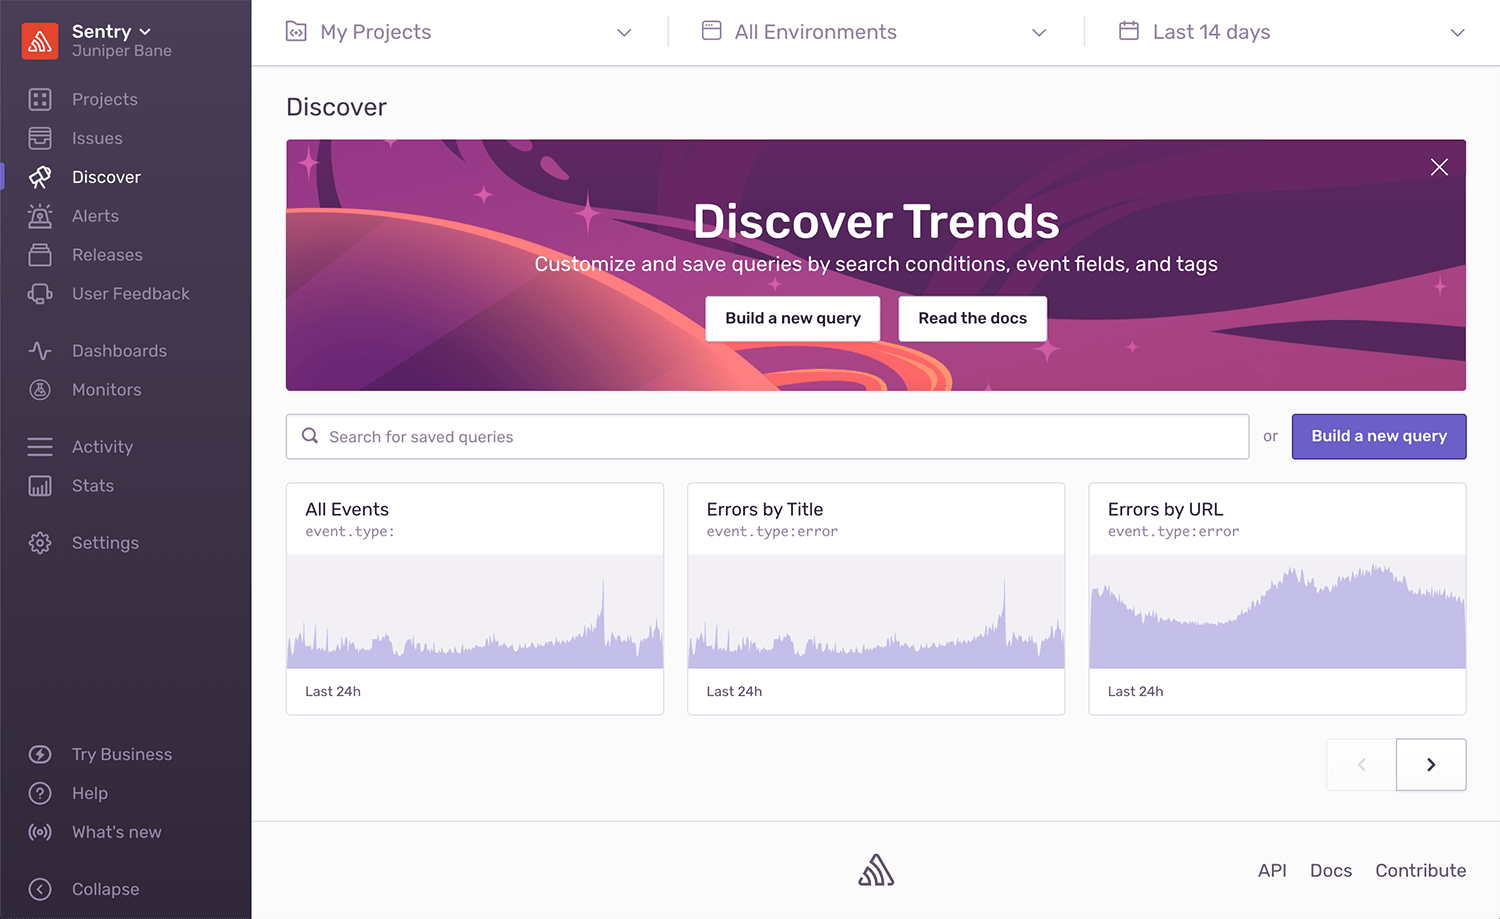
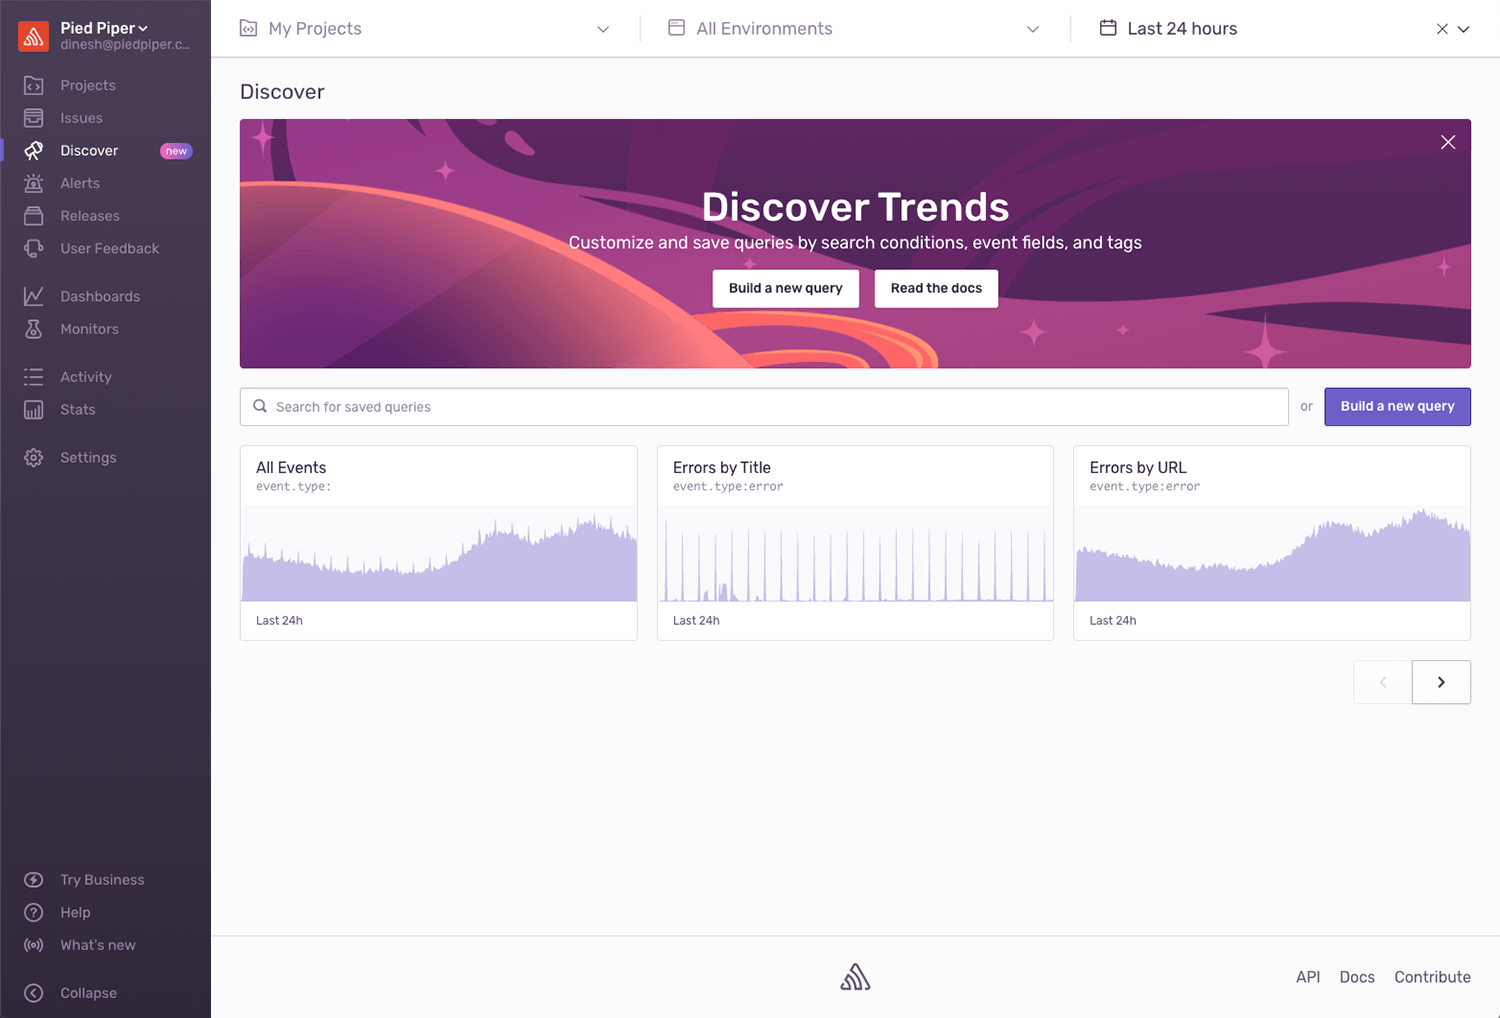
feat/discv2-screenshot-update (#1504)
* updating screenshots

* update screenshots

* added screenshot to index

* update sizes and table columns

diff --git a/src/collections/_documentation/workflow/discover2/index.md b/src/collections/_documentation/workflow/discover2/index.md
@@ -45,6 +45,8 @@ Saved queries will be viewable by anyone in your Sentry organization. You can us
 
 ## Query Builder
 
+[{% asset discover/discover-results.png alt="Page displaying a graph of error spikes by URL, the event tag summary, and results of the query." %}]({% asset discover/discover-results.png @path %})
+
 Navigate to any query page from the Discover Homepage in these ways:
 
 - Click on "Build a new query"
